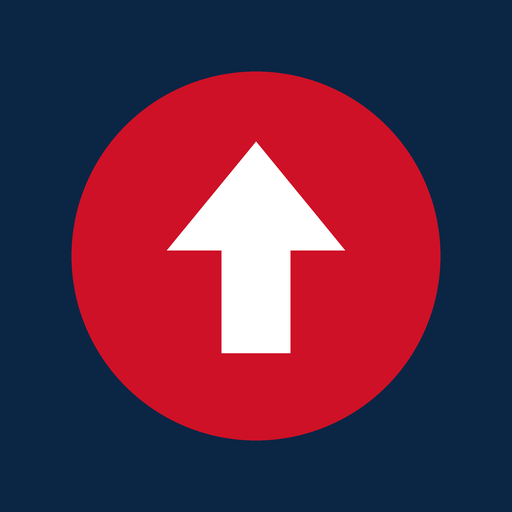
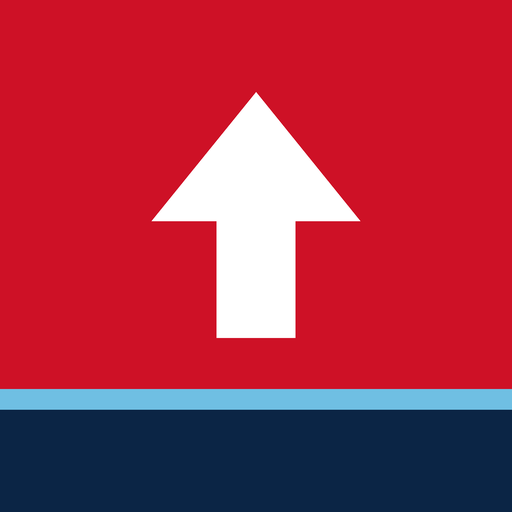
Add files via upload

diff --git a/styles.css b/styles.css
@@ -17,7 +17,10 @@
   --line: #dfe4e9;
   --ink: #0b2545;
   --grey: #4f5b67;
-  --gold: #c9a227;
+  --gold: #6fbfe3;        /* Riva light blue (kept the old name so older rules follow) */
+  --riva: #6fbfe3;
+  --riva-pale: #eaf6fc;
+  --blush: #ffe5e8;       /* soft white on Monaco red */
   --serif: "DM Serif", Georgia, serif;
   --sans: "Atkinson", "Segoe UI", Arial, sans-serif;
   --col: 600px;
@@ -32,26 +35,26 @@ a { color: inherit; }
 button { font: inherit; color: inherit; }
 .skip { position: absolute; left: -9999px; }
 .skip:focus { left: 12px; top: 12px; z-index: 99; background: #fff; padding: 8px 12px; }
-:focus-visible { outline: 3px solid var(--gold); outline-offset: 2px; }
+:focus-visible { outline: 3px solid var(--navy); outline-offset: 2px; box-shadow: 0 0 0 5px #fff; }
 main { max-width: var(--col); margin: 0 auto; outline: none; }
 
 /* Top bar */
-.bar { position: sticky; top: 0; z-index: 10; display: flex; align-items: center; justify-content: space-between; gap: 12px; padding: calc(10px + env(safe-area-inset-top)) max(16px, calc((100% - var(--col)) / 2 + 16px)) 10px; background: var(--navy); color: #fff; }
+.bar { position: sticky; top: 0; z-index: 10; display: flex; align-items: center; justify-content: space-between; gap: 12px; padding: calc(10px + env(safe-area-inset-top)) max(16px, calc((100% - var(--col)) / 2 + 16px)) 10px; background: var(--red); color: #fff; }
 .brand { display: flex; align-items: center; gap: 10px; text-decoration: none; }
-.mark { display: grid; place-items: center; width: 32px; height: 32px; border-radius: 8px; background: var(--red); }
-.mark svg { width: 22px; height: 22px; fill: #fff; }
+.mark { display: grid; place-items: center; width: 32px; height: 32px; border-radius: 8px; background: #fff; }
+.mark svg { width: 22px; height: 22px; fill: var(--red); }
 .brand-name { font-family: var(--serif); font-size: 21px; letter-spacing: 0.005em; }
 .lang { display: flex; border: 1px solid rgba(255, 255, 255, 0.35); border-radius: 999px; overflow: hidden; }
 .lang button { background: none; border: 0; padding: 5px 11px; font-size: 14px; font-weight: 700; color: rgba(255, 255, 255, 0.55); cursor: pointer; }
-.lang button.on { background: #fff; color: var(--navy); }
+.lang button.on { background: #fff; color: var(--red); }
 .lang button:disabled { cursor: not-allowed; }
 
 /* Home hero */
-.hero { background: var(--navy); color: #fff; padding: 22px 16px 26px; }
+.hero { background: var(--red); color: #fff; padding: 22px 16px 26px; box-shadow: inset 0 -6px 0 var(--riva); } /* Monaco red, with a Riva-blue waterline */
 @media (min-width: 600px) { .hero { border-radius: 0 0 22px 22px; padding: 28px 24px 30px; } }
-.preview { display: inline-block; font-size: 13.5px; font-weight: 700; color: var(--navy); background: var(--gold); border-radius: 999px; padding: 3px 11px; margin-bottom: 16px; }
+.preview { display: inline-block; font-size: 13.5px; font-weight: 700; color: var(--red); background: #fff; border-radius: 999px; padding: 3px 11px; margin-bottom: 16px; }
 .hero h1 { font-size: clamp(38px, 10vw, 52px); }
-.lede { margin-top: 12px; color: #cfdaea; max-width: 34ch; }
+.lede { margin-top: 12px; color: var(--blush); max-width: 34ch; }
 .chart-card figcaption { display: flex; justify-content: space-between; align-items: baseline; flex-wrap: wrap; gap: 4px 12px; padding: 0 6px 4px; font-weight: 700; font-size: 15px; }
 .key { display: flex; align-items: center; gap: 6px; font-weight: 400; font-size: 13px; color: var(--grey); }
 .key i { display: inline-block; width: 16px; height: 0; border-top: 3px solid var(--red); margin-left: 6px; }
@@ -121,8 +124,8 @@ main { max-width: var(--col); margin: 0 auto; outline: none; }
 .step-lift p { font-weight: 700; }
 .note { background: var(--stone); border-left: 4px solid var(--navy); border-radius: 4px 12px 12px 4px; padding: 14px 16px; margin-top: 12px; }
 .note strong { display: block; font-size: 15.5px; margin-bottom: 2px; }
-.sponsor { margin-top: 12px; border: 1.5px dashed var(--gold); border-radius: 12px; padding: 14px 16px; background: #fffbea; }
-.sp-label { display: block; font-size: 12.5px; font-weight: 700; color: #8a6d12; }
+.sponsor { margin-top: 12px; border: 1.5px dashed var(--riva); border-radius: 12px; padding: 14px 16px; background: var(--riva-pale); }
+.sp-label { display: block; font-size: 12.5px; font-weight: 700; color: #1f6b8e; }
 .sponsor strong { display: block; font-family: var(--serif); font-weight: 400; font-size: 21px; margin: 2px 0 4px; }
 .sponsor p { font-size: 15.5px; color: var(--grey); }
 .actions { display: grid; gap: 10px; margin-top: 22px; }
@@ -130,7 +133,7 @@ main { max-width: var(--col); margin: 0 auto; outline: none; }
 .btn-red { background: var(--red); color: #fff; }
 .btn-red:hover { background: var(--red-deep); }
 .btn-line { border: 2px solid var(--navy); color: var(--navy); }
-.unchecked { margin: 18px 0 8px; font-size: 14.5px; color: #6b5b16; background: #fbf5dc; border-radius: 10px; padding: 10px 14px; }
+.unchecked { margin: 18px 0 8px; font-size: 14.5px; color: #1d4560; background: var(--riva-pale); border-radius: 10px; padding: 10px 14px; }
 
 /* Lifts & info pages */
 .page { padding: 22px 16px 8px; }
@@ -163,12 +166,12 @@ main { max-width: var(--col); margin: 0 auto; outline: none; }
 .lifts span.step-ico { display: grid; font-size: inherit; }
 
 /* ---------- Version 2: where-to, route cards, map, survey ---------- */
-.where { margin-top: 22px; background: rgba(255, 255, 255, 0.06); border: 1px solid rgba(255, 255, 255, 0.14); border-radius: 18px; padding: 16px; }
+.where { margin-top: 22px; background: rgba(255, 255, 255, 0.1); border: 1px solid rgba(255, 255, 255, 0.28); border-radius: 18px; padding: 16px; }
 .where-h { font-family: var(--serif); font-size: 24px; line-height: 1.15; }
 .dests { display: flex; flex-wrap: wrap; gap: 8px; margin-top: 12px; }
 .dest { background: #fff; color: var(--navy); border: 0; border-radius: 999px; padding: 9px 15px; font-size: 16px; font-weight: 700; cursor: pointer; }
-.dest.on { background: var(--red); color: #fff; }
-.near-btn { display: flex; align-items: center; gap: 14px; margin-top: 14px; padding: 14px 16px; border-radius: 14px; background: var(--red); color: #fff; text-decoration: none; }
+.dest.on { background: var(--navy); color: #fff; }
+.near-btn { display: flex; align-items: center; gap: 14px; margin-top: 14px; padding: 14px 16px; border-radius: 14px; background: var(--navy); color: #fff; text-decoration: none; }
 .near-btn:hover { background: var(--red-deep); }
 .near-btn svg { width: 30px; height: 30px; fill: currentColor; flex: none; }
 .near-btn strong { display: block; font-size: 19px; }
@@ -210,7 +213,7 @@ body.is-map { padding-bottom: 0; }
 .mk-me { display: block; width: 22px; height: 22px; border-radius: 50%; background: #1a73e8; border: 3px solid #fff; box-shadow: 0 0 0 6px rgba(26, 115, 232, 0.25), 0 1px 4px rgba(0, 0, 0, 0.3); }
 .leaflet-popup-content { font-family: var(--sans); font-size: 15px; line-height: 1.45; }
 .leaflet-popup-content a { color: var(--red); font-weight: 700; }
-.pop-approx { color: #8a6d12; font-size: 13.5px; }
+.pop-approx { color: #1f6b8e; font-size: 13.5px; }
 .near { padding: 22px 16px 0; }
 .near h1 { font-size: clamp(32px, 8vw, 40px); }
 .loc-error { margin-top: 10px; color: var(--red-deep); font-weight: 700; }
@@ -223,7 +226,7 @@ button.map-mini { background: #fff; cursor: pointer; }
 .sv-gps { display: flex; align-items: center; gap: 10px; margin-top: 16px; padding: 10px 12px; border-radius: 10px; background: var(--stone); font-weight: 700; font-size: 15.5px; }
 .gps-dot { width: 12px; height: 12px; border-radius: 50%; background: #9aa5b1; flex: none; }
 .sv-gps.good .gps-dot { background: #1e9e5a; }
-.sv-gps.fair .gps-dot { background: var(--gold); }
+.sv-gps.fair .gps-dot { background: #e0a100; }
 .sv-gps.bad .gps-dot { background: var(--red); }
 .sv-map-wrap { margin: 12px -16px 0; }
 .sv-map { height: 42vh; min-height: 260px; }
@@ -293,11 +296,12 @@ button.map-mini { background: #fff; cursor: pointer; }
 .pl-sugg strong { display: block; }
 .pl-sugg small { display: block; color: var(--grey); font-size: 14.5px; }
 .pl-sugg .pl-none { color: var(--grey); cursor: default; }
-.pl-popular { margin-top: 14px; font-size: 15px; font-weight: 700; color: #cfdaea; }
+.pl-popular { margin-top: 14px; font-size: 15px; font-weight: 700; color: var(--blush); }
 .planner .dests { margin-top: 8px; }
 .planner .dest { font-size: 15px; padding: 7px 13px; }
-.pl-err { margin-top: 12px; color: #ffd5da; font-weight: 700; }
-.pl-go { width: 100%; margin-top: 16px; border: 0; cursor: pointer; font-family: inherit; }
+.pl-err { margin-top: 12px; color: #fff; font-weight: 700; background: rgba(11, 37, 69, 0.35); border-radius: 8px; padding: 6px 10px; }
+.pl-go { width: 100%; margin-top: 16px; border: 0; cursor: pointer; font-family: inherit; background: var(--navy); }
+.pl-go:hover { background: #13315c; }
 .near-link { display: block; text-align: center; margin-top: 12px; color: #fff; font-weight: 700; text-underline-offset: 3px; }
 
 /* Plan screen */
@@ -318,19 +322,19 @@ button.map-mini { background: #fff; cursor: pointer; }
 
 /* Meet me here */
 .meet { margin-top: 14px; }
-.meet-btn { display: flex; align-items: center; gap: 14px; width: 100%; text-align: left; background: rgba(255, 255, 255, 0.08); color: #fff; border: 1.5px solid rgba(255, 255, 255, 0.3); border-radius: 14px; padding: 14px 16px; cursor: pointer; font: inherit; }
+.meet-btn { display: flex; align-items: center; gap: 14px; width: 100%; text-align: left; background: rgba(255, 255, 255, 0.12); color: #fff; border: 1.5px solid rgba(255, 255, 255, 0.45); border-radius: 14px; padding: 14px 16px; cursor: pointer; font: inherit; }
 .meet-btn svg { width: 28px; height: 28px; fill: currentColor; flex: none; }
 .meet-btn strong { display: block; font-size: 18px; }
-.meet-btn small { display: block; font-size: 14.5px; color: #cfdaea; }
+.meet-btn small { display: block; font-size: 14.5px; color: var(--blush); }
 .meet-panel { margin-top: 10px; display: grid; gap: 8px; }
-.meet-panel label { font-weight: 700; font-size: 15px; color: #cfdaea; }
+.meet-panel label { font-weight: 700; font-size: 15px; color: var(--blush); }
 .meet-panel input { font: inherit; font-size: 17px; padding: 12px; border-radius: 10px; border: 0; }
 .btn-white { background: #fff; color: var(--navy); border: 0; cursor: pointer; font-family: inherit; }
 .meet-status { color: #fff; font-weight: 700; overflow-wrap: anywhere; }
 .pop-go { background: var(--red); color: #fff; border: 0; border-radius: 10px; padding: 10px 16px; font: inherit; font-weight: 700; cursor: pointer; }
 
 /* Just arrived */
-.arrive-btn { display: flex; align-items: center; justify-content: space-between; gap: 12px; margin-top: 18px; padding: 16px 18px; border-radius: 16px; background: var(--gold); color: var(--navy); text-decoration: none; }
+.arrive-btn { display: flex; align-items: center; justify-content: space-between; gap: 12px; margin-top: 18px; padding: 16px 18px; border-radius: 16px; background: #fff; color: var(--navy); box-shadow: inset 6px 0 0 var(--riva); text-decoration: none; }
 .arrive-btn strong { display: block; font-family: var(--serif); font-weight: 400; font-size: 26px; line-height: 1.1; }
 .arrive-btn small { display: block; font-size: 15.5px; font-weight: 700; margin-top: 2px; }
 .arrive-btn svg { width: 30px; height: 30px; fill: currentColor; flex: none; }
@@ -350,7 +354,7 @@ button.map-mini { background: #fff; cursor: pointer; }
 .ar-search input:focus { outline: none; border-color: var(--navy); }
 .ar-hint { margin-top: 8px; color: var(--grey); font-size: 15.5px; }
 .ar-go { width: 100%; margin-top: 22px; border: 0; cursor: pointer; font-family: inherit; }
-.note-welcome { border-left-color: var(--gold); background: #fbf5dc; margin-top: 0; margin-bottom: 14px; }
+.note-welcome { border-left-color: var(--riva); background: var(--riva-pale); margin-top: 0; margin-bottom: 14px; }
 .alt-btn { display: block; width: 100%; margin-top: 12px; text-align: left; background: #fff; border: 1.5px dashed #9aa5b1; border-radius: 12px; padding: 12px 14px; font: inherit; font-weight: 700; color: var(--navy); cursor: pointer; }
 .step-steps p { font-weight: 700; }
 .more-note { display: block !important; color: var(--grey); font-size: 15px; }
@@ -358,7 +362,8 @@ button.map-mini { background: #fff; cursor: pointer; }
 /* Transport */
 .tr-card { display: block; margin-top: 18px; padding: 18px; border-radius: 16px; background: var(--navy); color: #fff; text-decoration: none; }
 .tr-card strong { display: block; font-family: var(--serif); font-weight: 400; font-size: 26px; }
-.tr-card span { display: block; color: #cfdaea; margin-top: 2px; }
+.tr-card span { display: block; color: #cfe6f3; margin-top: 2px; }
+.tr-card.tr-airport { background: var(--navy); box-shadow: inset 0 -5px 0 var(--riva); }
 .bus-badge { display: inline-grid; place-items: center; min-width: 34px; height: 30px; padding: 0 7px; border-radius: 8px; font-family: var(--sans); font-weight: 700; font-size: 16px; vertical-align: middle; }
 .lines { list-style: none; margin: 12px 0 0; padding: 0; border-top: 1px solid var(--line); }
 .lines a { display: flex; align-items: center; gap: 12px; padding: 12px 0; border-bottom: 1px solid var(--line); text-decoration: none; }
@@ -401,7 +406,7 @@ button.map-mini { background: #fff; cursor: pointer; }
 .taxi-here .btn { width: 100%; }
 .taxi-verdict { padding: 14px 16px; border-radius: 12px; background: var(--stone); }
 .taxi-verdict.ok { background: #e6f5ec; }
-.taxi-verdict.fr { background: #fbf5dc; }
+.taxi-verdict.fr { background: var(--riva-pale); }
 .taxi-call { margin-top: 16px; }
 .taxi-call .btn { width: 100%; }
 .taxi-call p { margin-top: 8px; color: var(--grey); }

diff --git a/index.html b/index.html
@@ -5,7 +5,7 @@
   <meta name="viewport" content="width=device-width, initial-scale=1, viewport-fit=cover">
   <title>Monaco Made Easy | Lifts, escalators and step-free routes</title>
   <meta name="description" content="Get around Monaco and Beausoleil without the climb. Step-by-step routes using the free public lifts, escalators and walkways.">
-  <meta name="theme-color" content="#0b2545">
+  <meta name="theme-color" content="#ce1126">
   <link rel="manifest" href="manifest.webmanifest">
   <link rel="icon" href="icons/icon-192.png" type="image/png">
   <link rel="apple-touch-icon" href="icons/apple-touch-icon.png">

diff --git a/sw.js b/sw.js
@@ -1,6 +1,6 @@
 // Keeps the app working with no signal: everything is saved on the phone the first time it opens.
 // Change VERSION whenever the app is updated so phones pick up the new files.
-var VERSION = "mme-preview-14";
+var VERSION = "mme-preview-15";
 var TILES = "mme-map-tiles";
 var FILES = [
   "./", "index.html", "styles.css", "app.js", "data.js", "graph.js", "lifts-osm.js", "router.js", "bus.js", "border.js", "transit.js", "map.js", "survey.js", "planner.js", "manifest.webmanifest",
